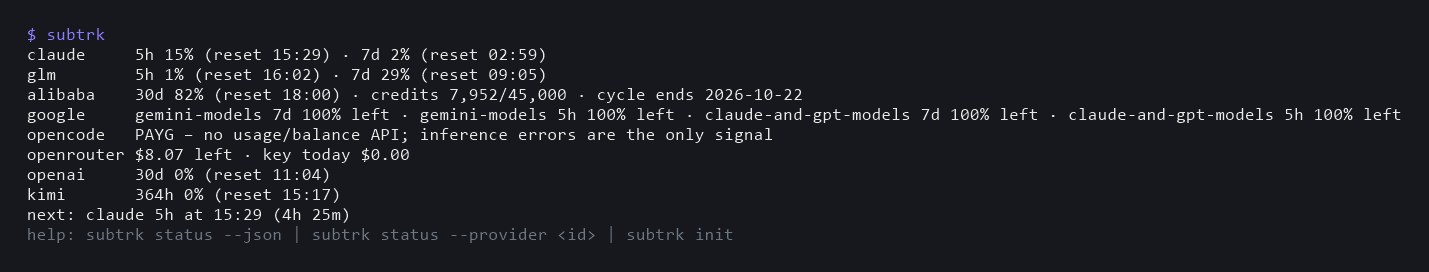
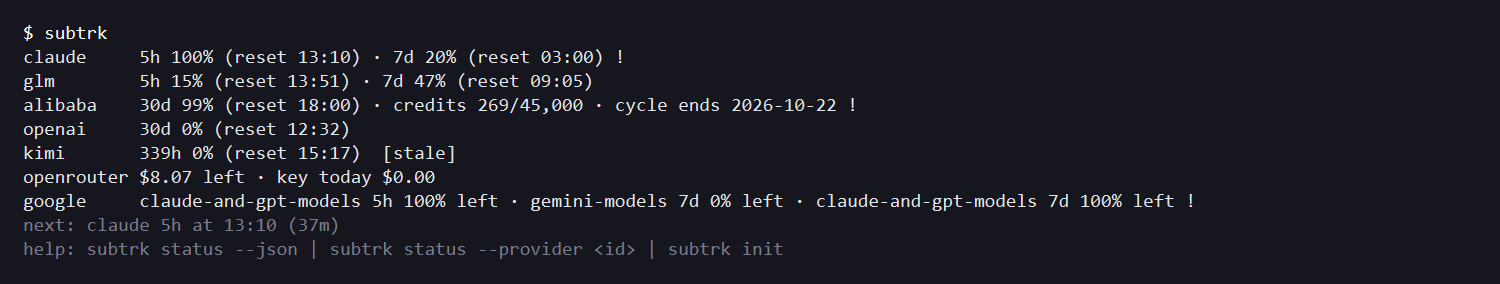
readme: screenshots and sample output for the model-class card UI (#25)
- console.png regenerated from a live serve: split Google model-class cards in
  the saved drag order, gear/eye header icons, per-card x buttons, real data
  (the exhausted Gemini weekly bar is the fix working, not a bug).
- cli.png regenerated from live output: scoped google line, fresh values.
- the sample status block updates the google line to the current scoped shape.

diff --git a/README.md b/README.md
@@ -25,7 +25,7 @@ $ subtrk
 claude     5h 13% (reset 18:04) · 7d 89% !
 glm        5h 4% (reset 19:47) · 7d 61%
 alibaba    credits 31,240/45,000 · cycle ends 2026-10-12
-google     5h 62% left · 7d 81% left   [stale]
+google     gemini-models 7d 0% left · claude-and-gpt-models 5h 100% left !
 opencode   PAYG · no usage API (signals only)
 openrouter $74.75 left · key today $1.20
 next: claude 5h at 18:09 (4h 49m)
